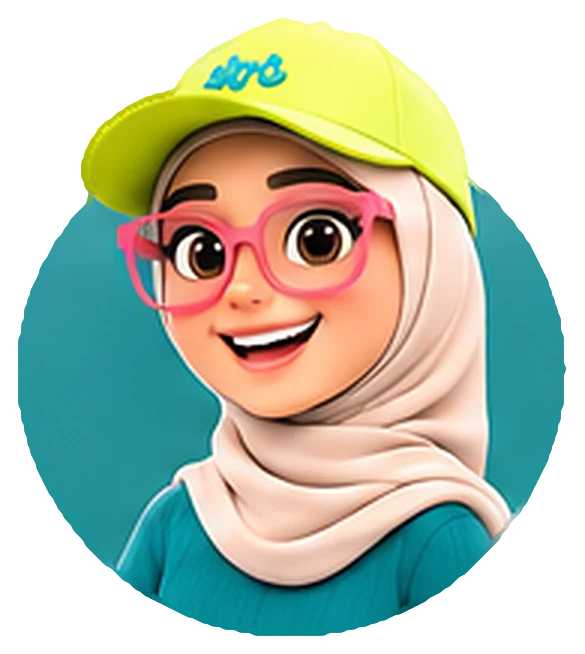
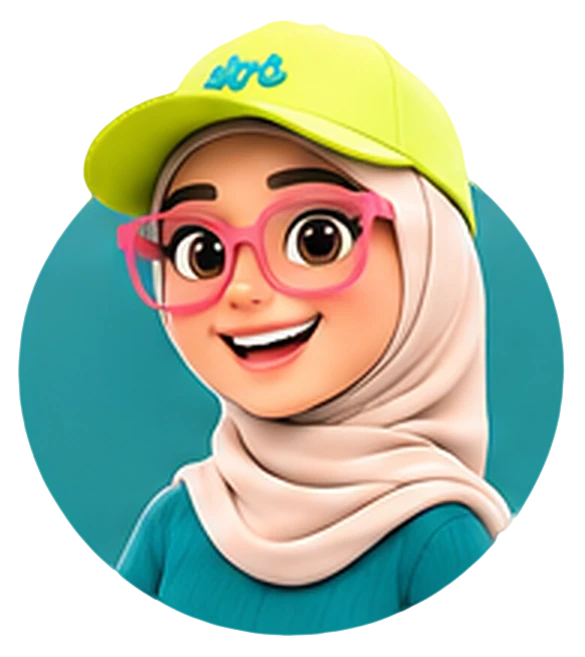
Poses: known-background matting for clean edges, gaps between legs transparent, tighter hero shadow

diff --git a/components/Hero.tsx b/components/Hero.tsx
@@ -98,7 +98,7 @@ export default function Hero() {
                       opacity: i === n ? 1 : 0,
                       transform: i === n ? "translateY(0) scale(1)" : "translateY(18px) scale(0.97)",
                       transition: "opacity 0.8s ease, transform 0.9s cubic-bezier(0.2,0.8,0.25,1)",
-                      filter: "drop-shadow(0 12px 22px rgba(0,0,0,0.25))",
+                      filter: "drop-shadow(0 6px 9px rgba(0,0,0,0.16))",
                     }}
                   />
                 ))
